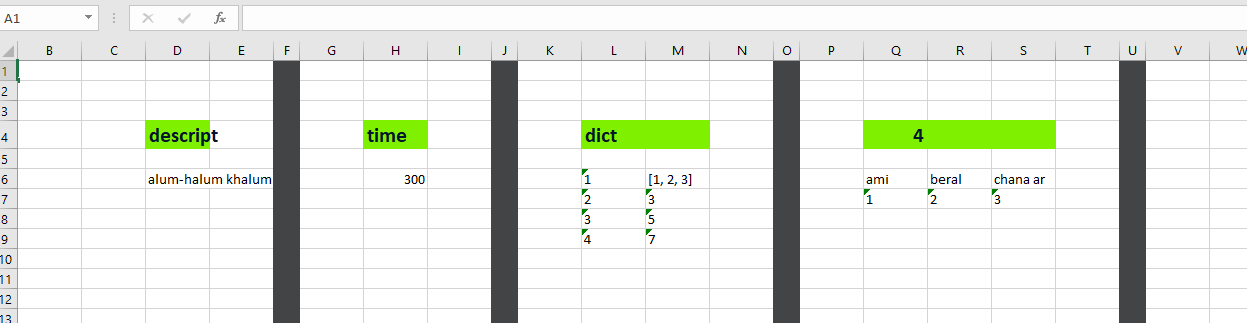
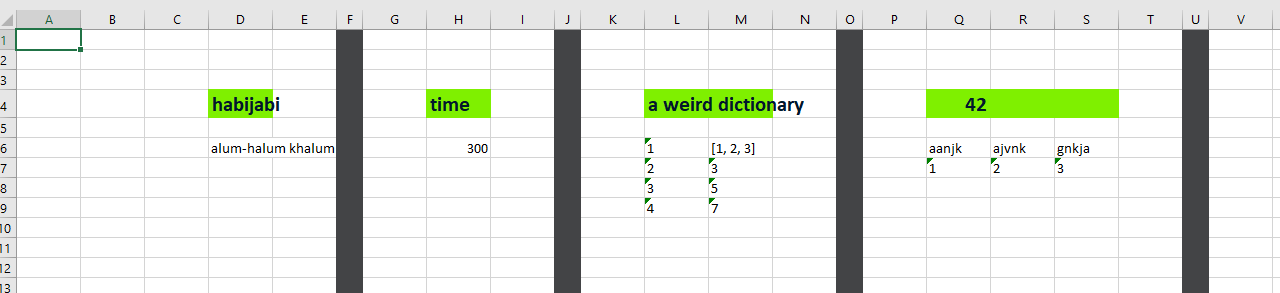
revised version

diff --git a/snutshell/__init__.py b/snutshell/__init__.py
@@ -3,6 +3,11 @@ import xlsxwriter
 import numpy as np
 import os
 
+def load(filename):
+    loaded_dict = pickle.load(open(filename, 'rb'))
+    return dict
+
+
 def np_2darray_converter(matrix):
 
     if(type(matrix) == type({})):             # making dictionary suitable for excel
@@ -27,8 +32,14 @@ def create_dat(filename, keys, data = None):
             data_dict[key] = data[i]
         pickle.dump(data_dict, open(filename, 'wb'))
 
+        
 
-def create_xlsx(filename, keys, data = None):
+
+def create_xlsx(filename, keys, data = None, dat = False):
+    if(dat == True):
+        fname, fext = os.path.splitext(filename)
+        create_dat(fname + '.dat', keys, data)
+
     workbook = xlsxwriter.Workbook(filename)
     worksheet = workbook.add_worksheet()
     title_format = workbook.add_format({ 'font_size':16, 'font_color':'#02172C',
@@ -69,70 +80,6 @@ def create_xlsx(filename, keys, data = None):
 
     workbook.close()
 
-class Simsum:
-    '''the summary class summarizes simulation results (input variables, parameters, useful results)
-    '''
-
-    def __init__(self, s = None):
-        if(s == None):
-            self.description = "Description was not provided"
-        else:
-            self.description = s
-        self.data = {}
-    def add(self, keys, values = None):
-        if (values == None):    # dictionary input
-            try:
-                for i in keys.keys():
-                    if(str(i)[0] == '_' and str(i)[1] == '_'):
-                        pass
-                    else:
-                        self.data[i] = keys[i]
-            except:
-                print('A dictionary with "string / numeric" keys is expected as 2nd positional argument')
-
-        else:
-            try:
-                for i, key in enumerate(keys):
-                    self.data[key] = values[i]
-            except:
-                print('A list is expected as 2nd and 3rd positional argument')
-
-
-
-    def save(self, filename, xlsx = False):
-        final_dict = {'description' : self.description}
-        final_dict.update(self.data)
-        pickle.dump(final_dict, open(filename, 'wb'))
-
-        if(xlsx == True):
-            fname, fext = os.path.splitext(filename)
-            create_xlsx(fname + '.xlsx', final_dict)
-
-
-    @classmethod
-    def load(cls, filename, dict = False):
-        loaded_dict = pickle.load(open(filename, 'rb'))
-        if (dict == False):
-            new_obj = Simsum(loaded_dict['description'])
-            data_dict = {}
-            for key in loaded_dict.keys():
-                if(key != 'description'):
-                    data_dict[key] = loaded_dict[key]
-            new_obj.add(data_dict)
-            return new_obj
-        else:
-            return loaded_dict
-
-    def print_description(self):
-        print(self.description)
-    def print_keys(self):
-        print('All Keys: ', list(self.data.keys()) + ['description'])
     
-    def get_keys(self):
-        return list(self.data.keys())
 
-    def get_data(self, key = None):
-        if(key == None):
-            return self.data
-        else:
-            return self.data[key]
+

diff --git a/README.md b/README.md
@@ -21,7 +21,7 @@ All the functionalities are explained using simple examples:
     from snutshell import create_xlsx
     import numpy as np
     list1 = [['a', 'b', 'c'], ['apple', 'banana', 'cat']]
-    list2 = np.array([[5,6], [7,8]]) 
+    list2 = np.array([[5, 6], [7, 8]]) 
     dict = {'title1' : list1, 'title2': list2} 
     create_xlsx('filename.xlsx', dict)
 
@@ -33,8 +33,20 @@ All the functionalities are explained using simple examples:
 
 
     # you can also save some weird data 
-    dict = {'habijabi': 'alum-halum khalum', 'time':300, 'a weird dictionary': {1:[1,2,3],2:3,3:5,4:7}, 42:[['aanjk', 'ajvnk', 'gnkja'],[1,2,3]]}   
+    dict = {'habijabi': 'alum-halum khalum', 'time': 300, 'a weird dictionary': {1 : [1,2,3], 2 : 3, 3 : 5, 4 : 7}, 42 : [['aanjk', 'ajvnk', 'gnkja'],[1, 2, 3]]}   
     create_xlsx('filename.xlsx', dict)    # observe the way a dictionary input is saved
    
 ![image3](https://github.com/naziulhaque/Snutshell/blob/master/docs/s3.PNG)
 
+    # you can save the file in DAT format also. DAT file saves the data as python dictionary. For this you have to use a keyword argument which is illustrated using the previous example:
+
+    dict = {'habijabi': 'alum-halum khalum', 'time':300, 'a weird dictionary': {1:[1,2,3],2:3,3:5,4:7}, 42:[['aanjk', 'ajvnk', 'gnkja'],[1,2,3]]}   
+    create_xlsx('filename.xlsx', dict, dat = True)
+
+
+**load** function
+
+    # this function loads a DAT file (which was created from a python dictionary in the first place) as python dictionary.
+
+    from snutshell import load
+    dict = load('filename.dat')
